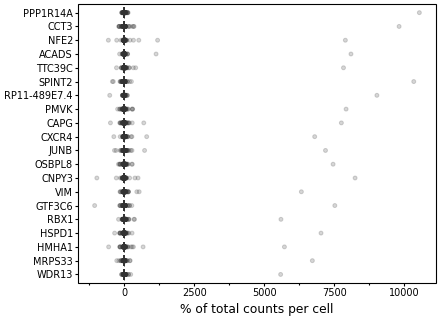
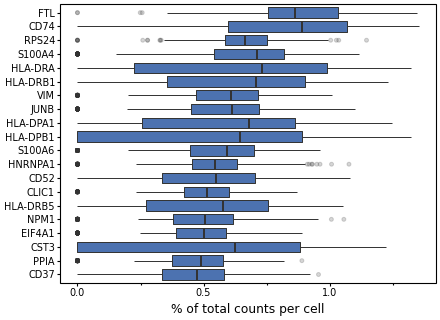
fix: composition-area gaps and misleading plot_highest_expr_genes example
Two aesthetic issues found reviewing the plot surface:

- plot_proportions: adata.ap.count() omits (split_by x group_by) combinations
  with zero cells, so a stacked area (or bar) left white gaps where a rare group
  was absent in a split level. Complete the grid with 0-fill so the bands tile
  cleanly, and drop the white segment outline on kind="area" (it read as slivers
  on a many-group stack; qualitative fills separate the bands).
- plot_highest_expr_genes: warn when the matrix has negative values (scaled /
  z-scored data), for which "percent of total counts" is meaningless, and point
  the API example at .raw (log-normalized) instead of pbmc's scaled .X -- the
  committed example image previously showed ~10000%% nonsense.

Claude-Session: https://claude.ai/code/session_015HrvqstMUbu3ZNVDuzbbLV

diff --git a/tests/test_aesthetic_fixes.py b/tests/test_aesthetic_fixes.py
@@ -1,0 +1,40 @@
+"""Regression tests for the plot-aesthetics review fixes."""
+
+from __future__ import annotations
+
+import numpy as np
+import plotnine as p9
+import pytest
+
+import anngg as ag
+
+
+def _build(plot):
+    assert isinstance(plot, p9.ggplot)
+    plot._build()
+    return plot
+
+
+def test_highest_expr_warns_on_scaled_matrix(adata):
+    # pbmc68k_reduced.X is z-scored (has negatives) -> percentages are meaningless
+    with pytest.warns(UserWarning, match="scaled"):
+        ag.plot_highest_expr_genes(adata, n=5)
+
+
+def test_highest_expr_on_raw_is_clean(adata):
+    import warnings
+
+    with warnings.catch_warnings():
+        warnings.simplefilter("error")  # .raw (log-norm) must NOT trigger the scaled warning
+        _build(ag.plot_highest_expr_genes(adata, n=10, use_raw=True))
+
+
+def test_proportions_area_fills_missing_combos(adata, group_key):
+    # drop one group entirely from one phase so a (phase, group) combo is missing;
+    # the stacked area must still cover every split level (grid completed with 0).
+    ad = adata.copy()
+    victim = ad.obs[group_key].cat.categories[-1]
+    keep = ~((ad.obs["phase"] == "G1") & (ad.obs[group_key] == victim)).to_numpy()
+    ad = ad[keep].copy()
+    _build(ag.plot_proportions(ad, group_key, split_by="phase", kind="area"))
+    _build(ag.plot_proportions(ad, group_key, split_by="phase", kind="bar"))

diff --git a/src/anngg/composition.py b/src/anngg/composition.py
@@ -8,6 +8,7 @@ don't cover.
 
 from __future__ import annotations
 
+import pandas as pd
 import plotnine_extra as pe
 from plotnine import aes, geom_area, geom_col, geom_line, geom_point, ggplot, labs
 
@@ -55,6 +56,16 @@ def plot_proportions(
     by = [split_by, group_by] if split_by else [group_by]
     counts = adata.ap.count(by=by)
 
+    if split_by:
+        # count() omits (split x group) combinations with zero cells; fill them
+        # with 0 so a stacked area/bar tiles cleanly instead of leaving gaps.
+        gcats = categories_order or _group_categories(adata, group_by) or sorted(counts[group_by].unique())
+        scats = split_order or _group_categories(adata, split_by) or sorted(counts[split_by].unique())
+        full = pd.MultiIndex.from_product([scats, gcats], names=[split_by, group_by])
+        counts = (
+            counts.set_index([split_by, group_by])["n"].reindex(full, fill_value=0).reset_index()
+        )
+
     if normalize:
         if split_by:
             denom = counts.groupby(split_by, observed=True)["n"].transform("sum")
@@ -88,9 +99,11 @@ def plot_proportions(
             + pe.rotate_x_text(45)
         )
     if kind == "area":
+        # no segment outline: on a many-group stacked area the thin white borders
+        # read as slivers/gaps; the qualitative fill colours separate the bands.
         return (
             ggplot(counts, aes(xvar, "value", fill=group_by, group=group_by))
-            + geom_area(position=position, color="white", size=0.15)
+            + geom_area(position=position)
             + scale_fill_obs(adata, group_by)
             + labs(x="", y=ylab, fill=group_by)
             + theme_anngg()

diff --git a/src/anngg/qc.py b/src/anngg/qc.py
@@ -142,6 +142,14 @@ def plot_highest_expr_genes(adata, n: int = 20, *, use_raw: bool = False, layer:
     else:
         wide = _densify(adata.ap.to_df(x=list(adata.var_names), layer=lyr))
 
+    if (wide.to_numpy() < 0).any():
+        warnings.warn(
+            "plot_highest_expr_genes: the expression matrix has negative values, which "
+            "looks like scaled/z-scored data -- 'percent of total counts' will be "
+            "meaningless. Pass use_raw=True or layer= to point at counts or "
+            "log-normalized values.",
+            stacklevel=2,
+        )
     n_zero = int((wide.sum(axis=1) == 0).sum())
     if n_zero:
         warnings.warn(

diff --git a/examples/api_examples.py b/examples/api_examples.py
@@ -66,7 +66,9 @@ def _examples(adata):
             adata, metrics=["n_genes", "percent_mito", "n_counts"], group_by=GROUP
         ),
         "anngg.plot_qc_scatter": lambda: ag.plot_qc_scatter(adata, x="n_counts", y="n_genes", color=GROUP),
-        "anngg.plot_highest_expr_genes": lambda: ag.plot_highest_expr_genes(adata, n=20),
+        # use_raw: pbmc68k_reduced.X is scaled (z-scored); .raw is log-normalized,
+        # so "% of total counts" is meaningful there rather than blowing up.
+        "anngg.plot_highest_expr_genes": lambda: ag.plot_highest_expr_genes(adata, n=20, use_raw=True),
         "anngg.plot_clustermap": lambda: ag.plot_clustermap(adata, MARKERS, group_by=GROUP),
         "anngg.plot_upset": lambda: ag.plot_upset(marker_sets, min_cardinality=1),
     }